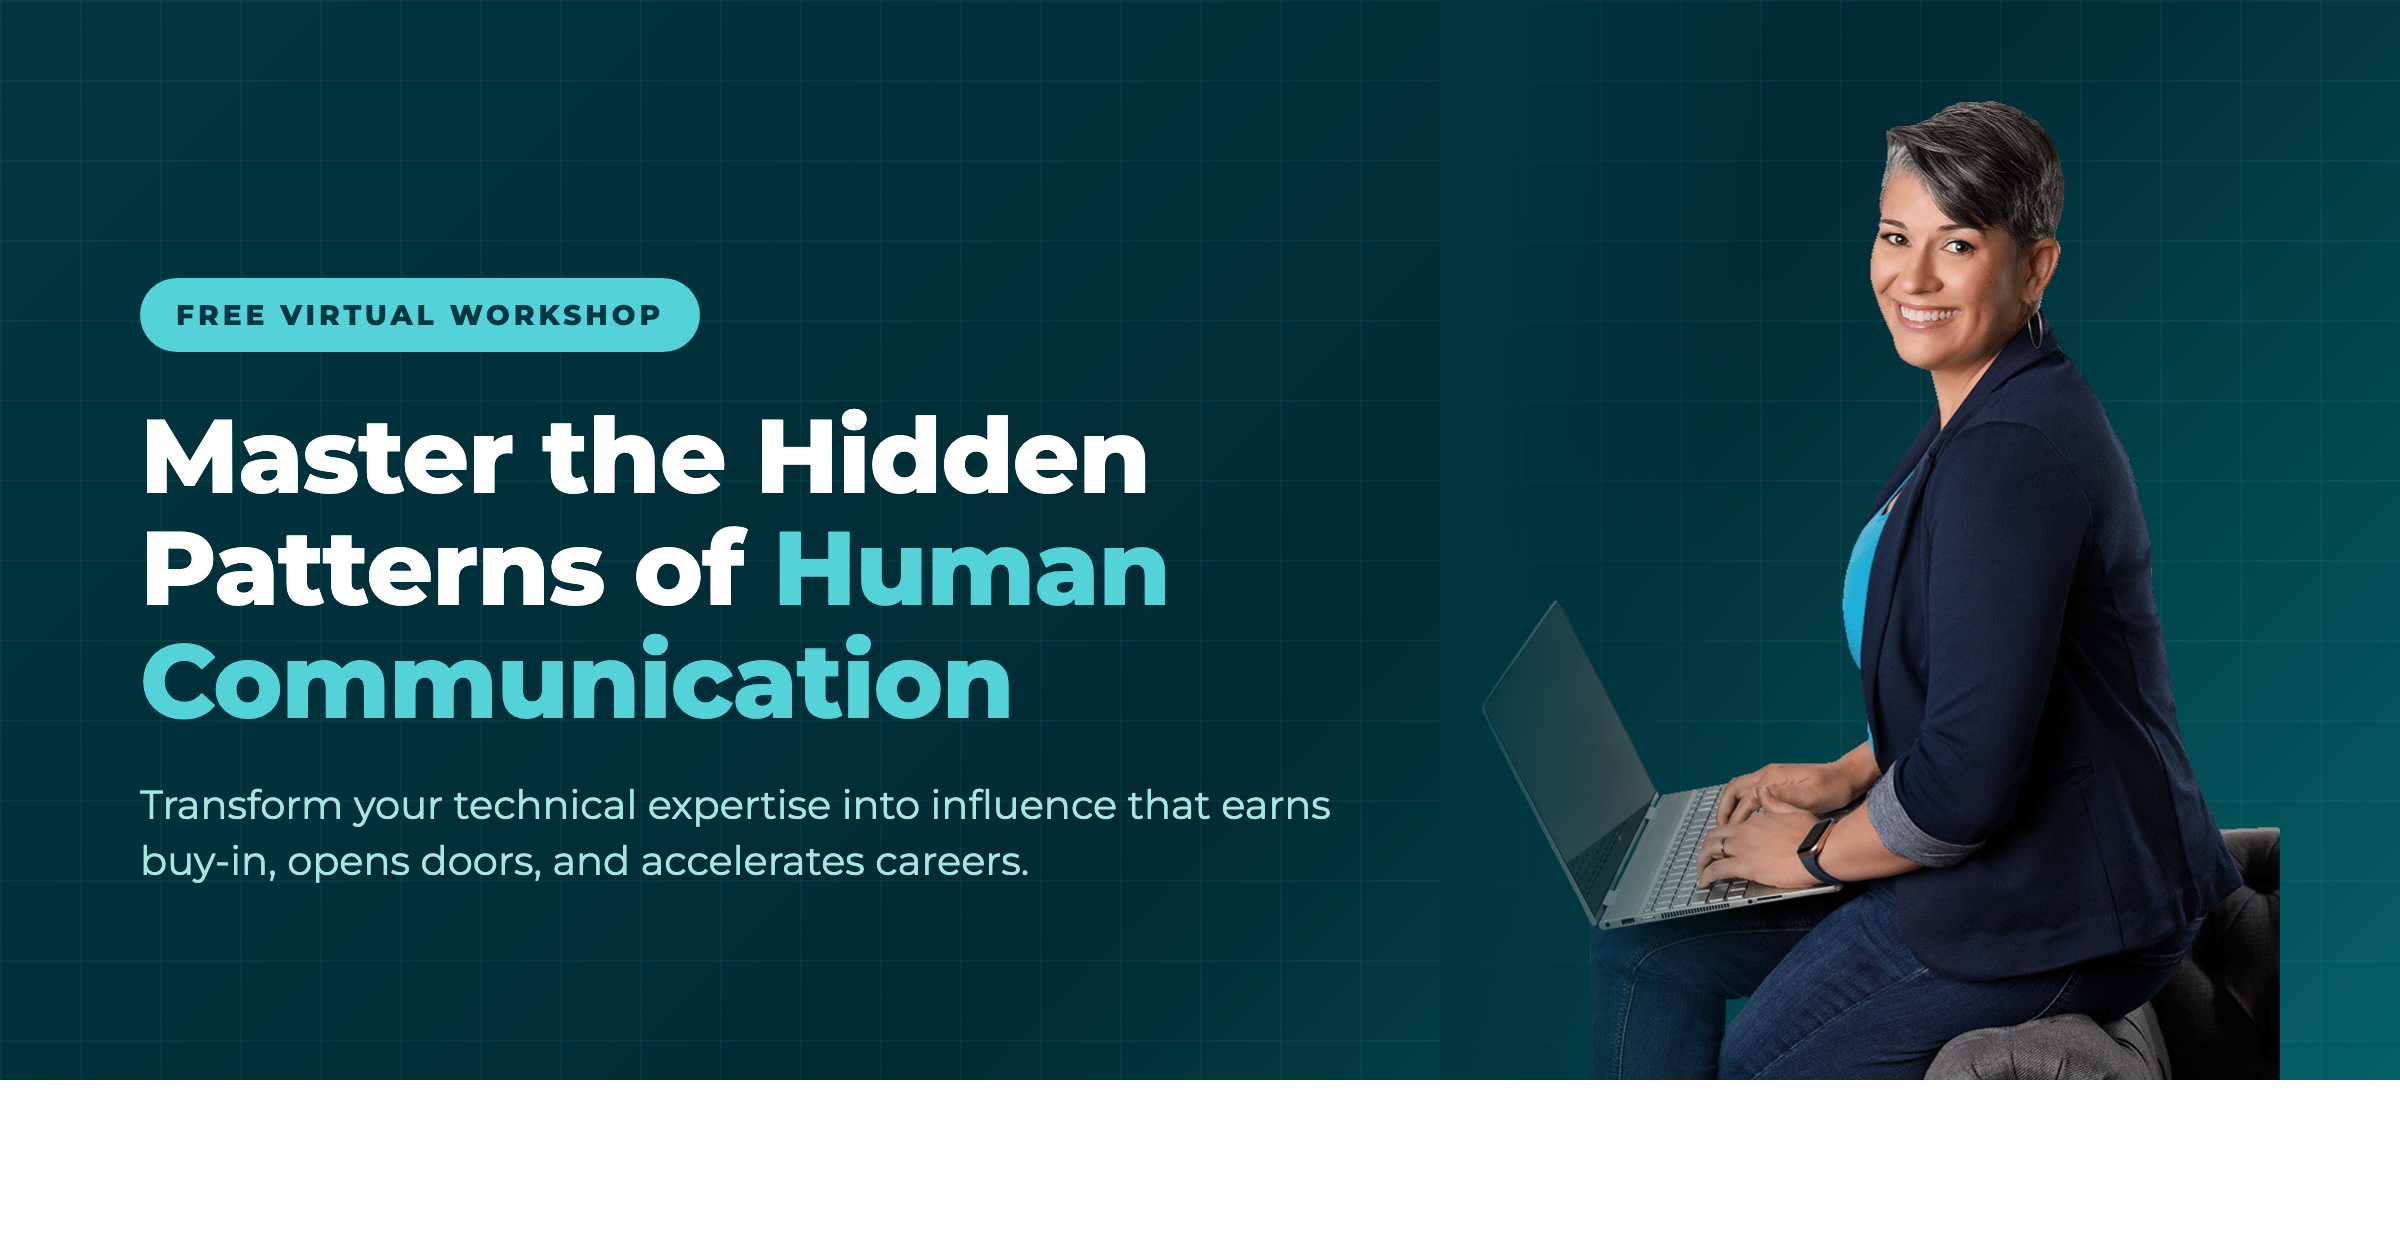
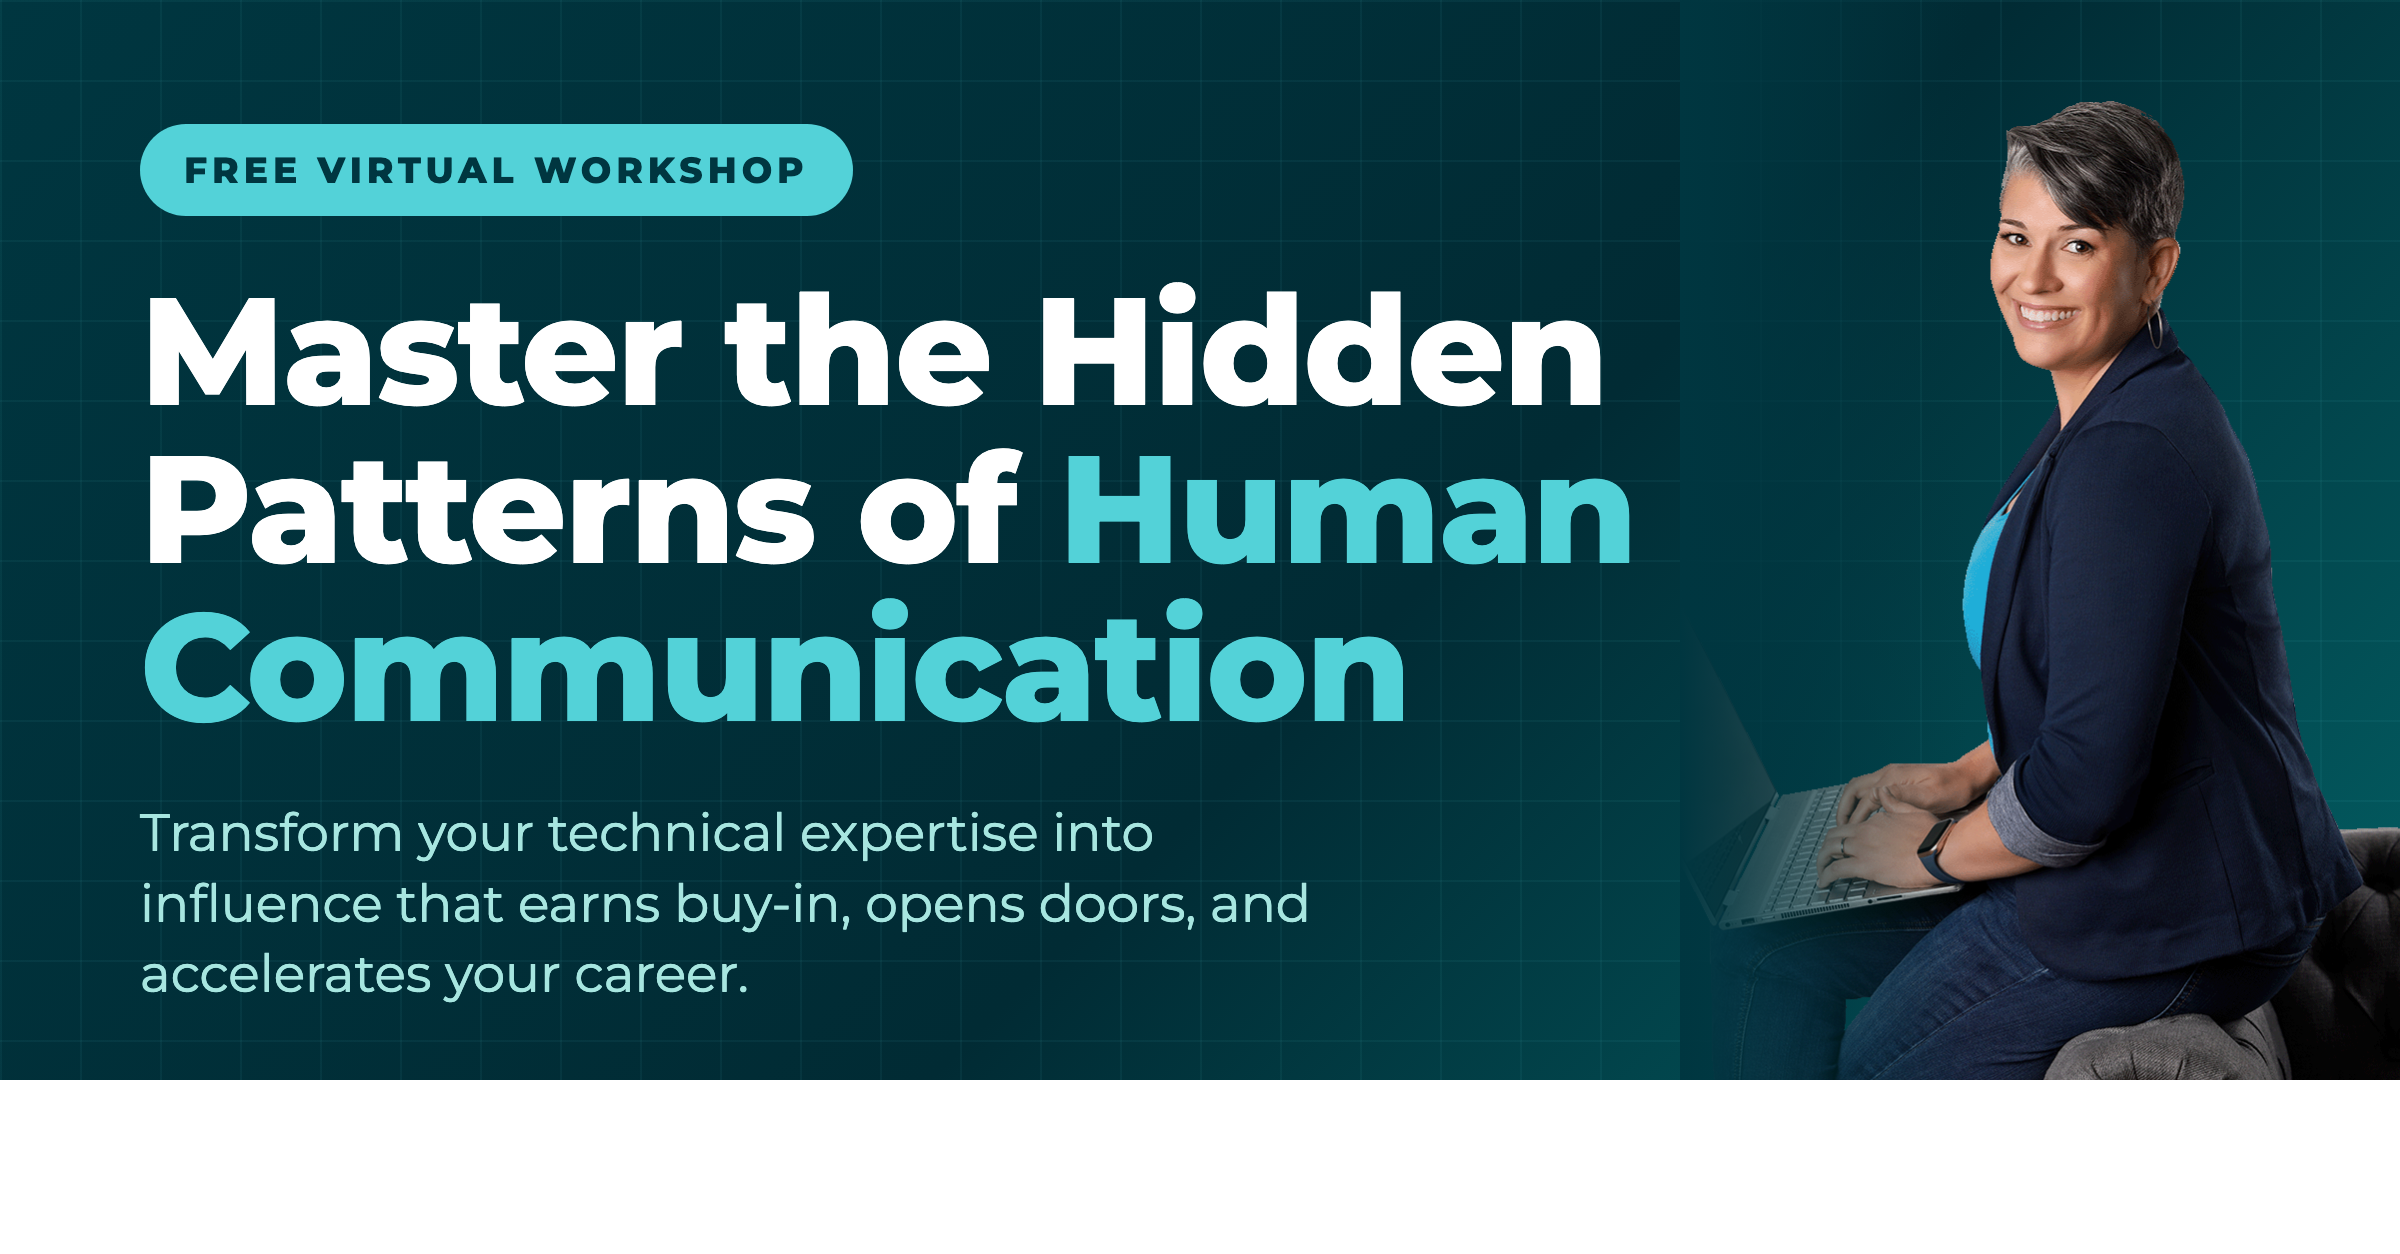
Refine workshop subheadline + OG card: bigger type, "accelerates your career"
Enlarged OG card type so it's legible in LinkedIn's compressed preview
(headline 52→76px, subhead 20→26px, badge 14→18px) and vertically
centered the text block. Rewrote the workshop subheadline in
second-person to match the layout's default meta description, and
updated "accelerates careers" → "accelerates your career" everywhere
the phrase appears for pronoun consistency.

Changed region(s): [[0.0625, 0.0622, 1.0, 0.8708], [0.0625, 0.622, 0.5625, 0.8086], [0.0312, 0.0933, 0.375, 0.1866]]

diff --git a/src/content/landing-pages/sbc-cold-landing.md b/src/content/landing-pages/sbc-cold-landing.md
@@ -3,7 +3,7 @@ hero:
   badge: "Virtual Workshop with Andrea Goulet"
   badgeDetails: Request your invitation below.
   headline: "Master the Hidden Patterns of Human Communication"
-  subheadline: "For professionals who want to transform their technical expertise into influence that earns buy-in, opens doors, and accelerates careers."
+  subheadline: "Transform your technical expertise into influence that earns buy-in, opens doors, and accelerates your career."
 ctaText: "Reserve Your Seat Now!"
 whatYoullLearn:
   title: "After This Workshop, You'll Be Able To..."
